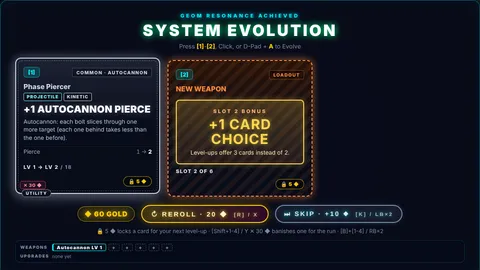
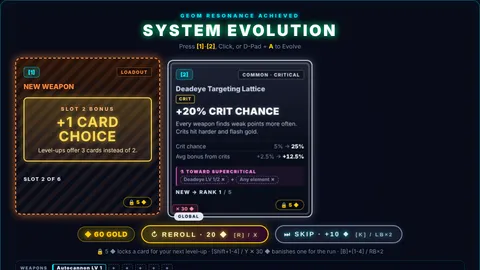
v0.46.0: re-capture the tutorial level-up still (#239 card frames and weapon pills); note 7 mentions the RARE frame
Claude-Session: https://claude.ai/code/session_01GTouUJQZsmbtgnWhxk3z2U

diff --git a/js/changelog.js b/js/changelog.js
@@ -22,7 +22,7 @@ export const CHANGELOG = Object.freeze([
       { type: 'new', text: 'New global cards: Tempo Core, Cooldown Matrix, Persistence Field, Velocity Coils. Field Amplifier is +10% (was +15%); tag cards give +20/25/25% and are always UNCOMMON.' },
       { type: 'balance', text: 'One card, one job: Geom Attractor is pickup only, Phase Nova just the shockwave, bombs drop from lieutenants. Eight dead cards are retired, so hands never offer dead ranks.' },
       { type: 'new', text: 'SKIP a level-up for +10 gold ([K] or LB twice). Cards show evolution recipes, and the Field Guide lists every recipe against your build.' },
-      { type: 'balance', text: 'Phase Piercer, Extra Nozzle and Split Rails keep full power but are RARE finds. Crits are reworked, FROST bites, and Tesla Arc fires twice as often.' },
+      { type: 'balance', text: 'Phase Piercer, Extra Nozzle and Split Rails keep full power but are RARE finds, framed in a glowing border. Crits are reworked, FROST bites, and Tesla Arc fires twice as often.' },
       { type: 'new', text: 'Bosses escape after 3 minutes: kill one in time for its Alien Tech Cache (the renamed supply cache). Its boss bar counts down the last 30 seconds.' }
     ]
   },
